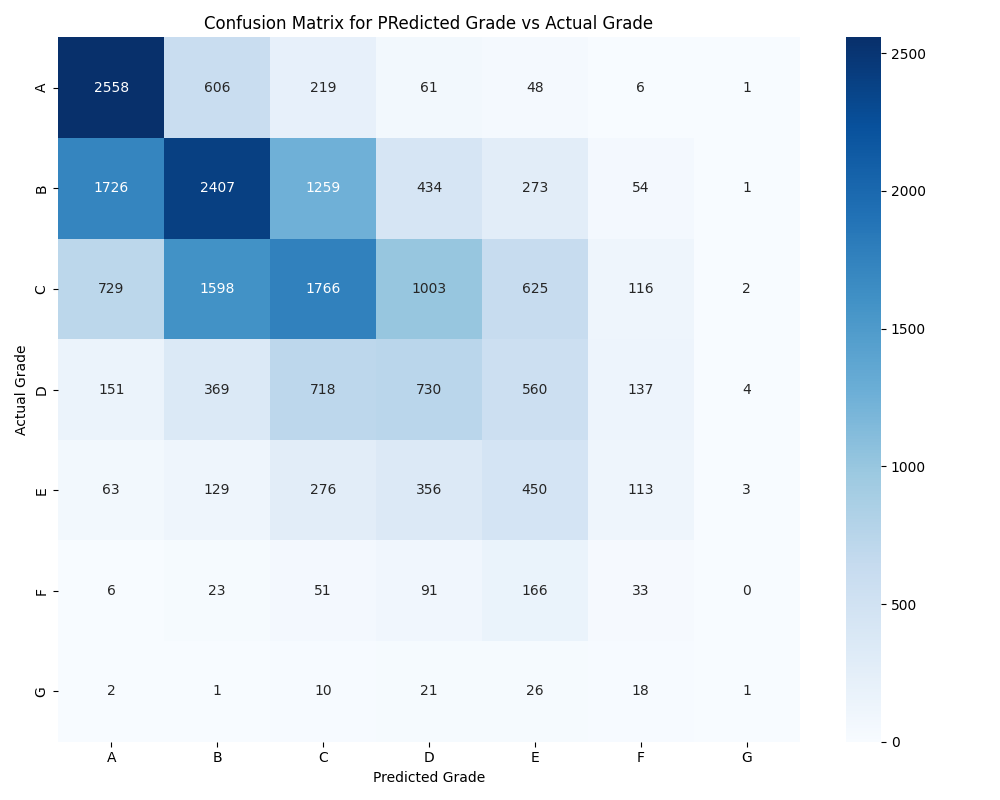
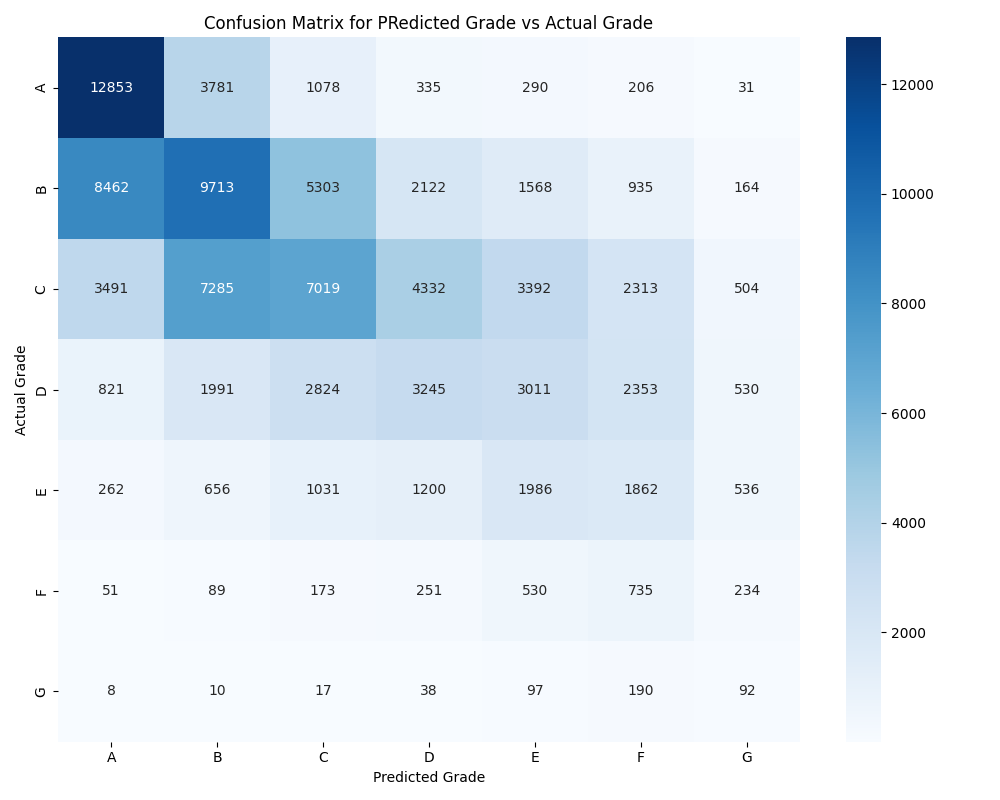
Converted grades into risk profile tiers

diff --git a/notebooks/preprocessing.py b/notebooks/preprocessing.py
@@ -9,7 +9,7 @@ df = pd.read_csv(
     'data/accepted_2007_to_2018Q4.csv.gz',
     compression='gzip',
     low_memory=False,
-    nrows=500000
+    nrows=5 00000
 )
 print(f" Data loaded: {df.shape}")
 
@@ -101,8 +101,18 @@ print(f"Purpose after rare encoding: {df_new['purpose'].value_counts()}")
 cat_cols = ['purpose','home_ownership']
 df_new = pd.get_dummies(df_new, columns=cat_cols, drop_first=True)
 
-le = LabelEncoder()
-df_new['encoded_grade'] = le.fit_transform(df_new['grade'])
+
+def grade_to_tier_mapping(grade):
+    if grade in ['A','B']:  # Low Risk
+        return 0
+    elif grade in ['C','D']:  # Medium Risk
+        return 1
+    else:
+        return 2 # High Risk
+    
+df_new['encoded_grade'] = df_new['grade'].apply(grade_to_tier_mapping)
+
+print(f'Risk Tier Distribution: {df_new['encoded_grade'].value_counts().sort_index()}')
 
 print(f'Shape after Encoding: {df_new.shape}')
 
